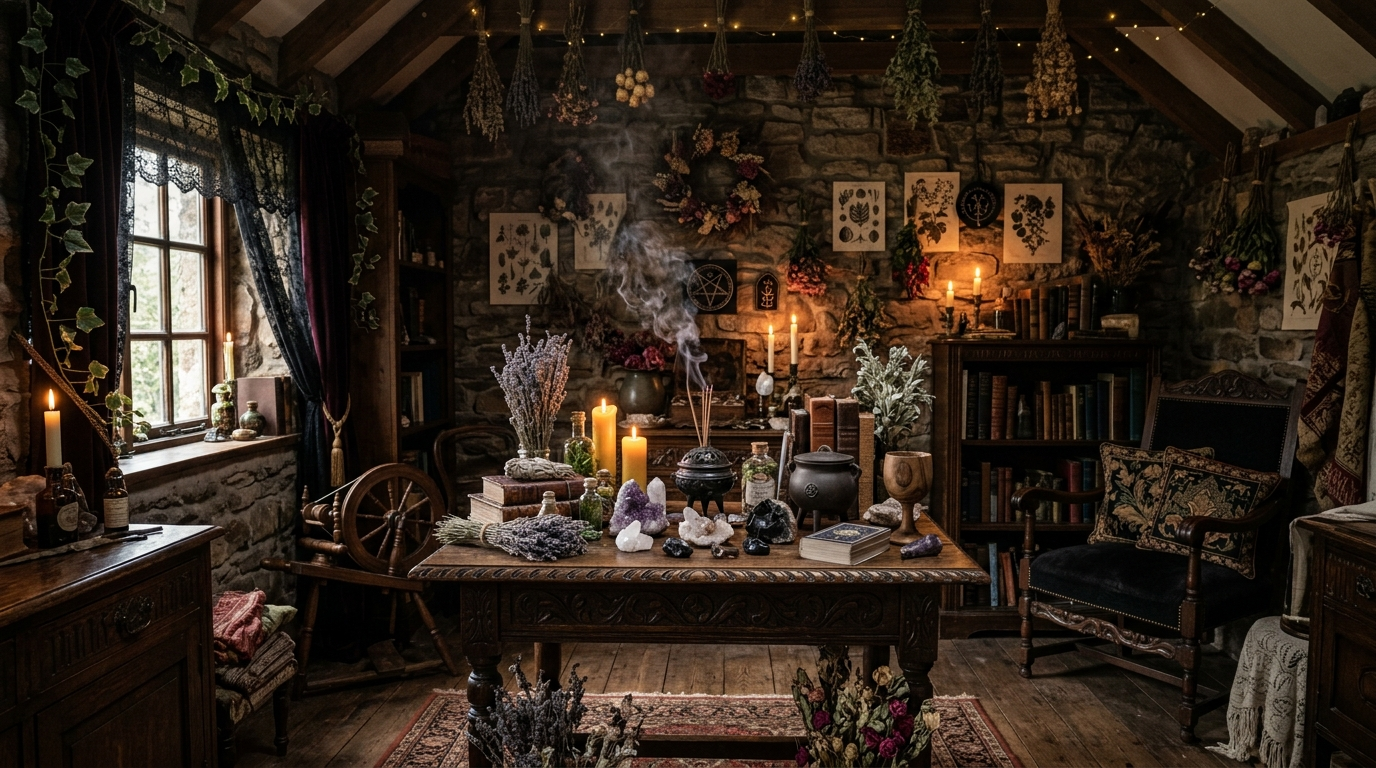
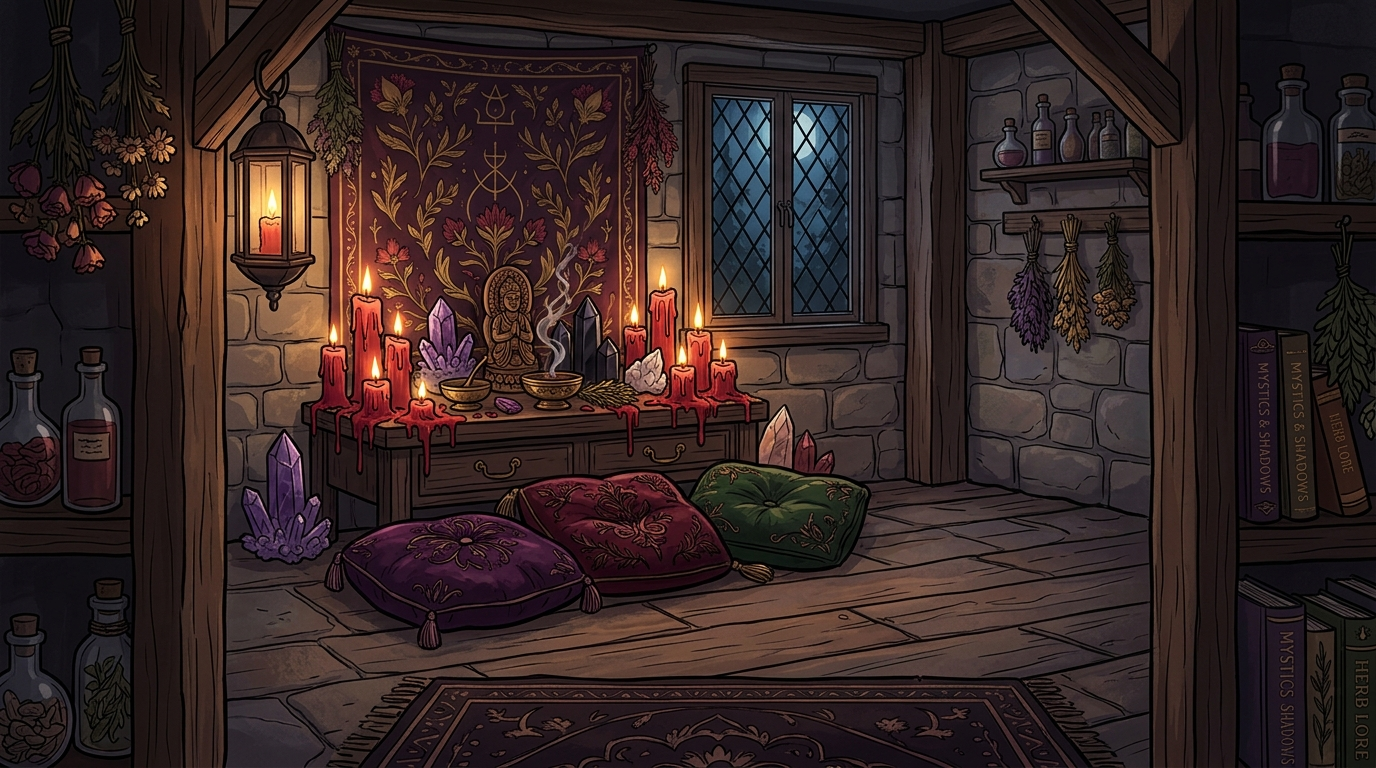
fix: replace all old hyper-realistic backgrounds with correct 2D illustrated art style

diff --git a/src/App.jsx b/src/App.jsx
@@ -17,7 +17,7 @@ import Scrying from './screens/Scrying.jsx';
 import ShadowTome from './screens/ShadowTome.jsx';
 
 const TABS = [
-  { id: 'rites', label: 'The Mortal Rites', glyph: G.tabRites, bg: '/assets/bg_sanctuary.jpg', pose: 'working' },
+  { id: 'rites', label: 'The Mortal Rites', glyph: G.tabRites, bg: '/assets/bg_rites.jpg', pose: 'working' },
   { id: 'grim', label: 'The Grimoire', glyph: G.tabGrim, bg: '/assets/bg_grimoire.jpg', pose: 'reading' },
   { id: 'altars', label: 'The Altars', glyph: G.tabAltars, bg: '/assets/bg_altars.jpg', pose: 'meditating' },
   { id: 'root', label: 'The Rootwork', glyph: G.tabRoot, bg: '/assets/bg_rootwork.jpg', pose: 'working' },
